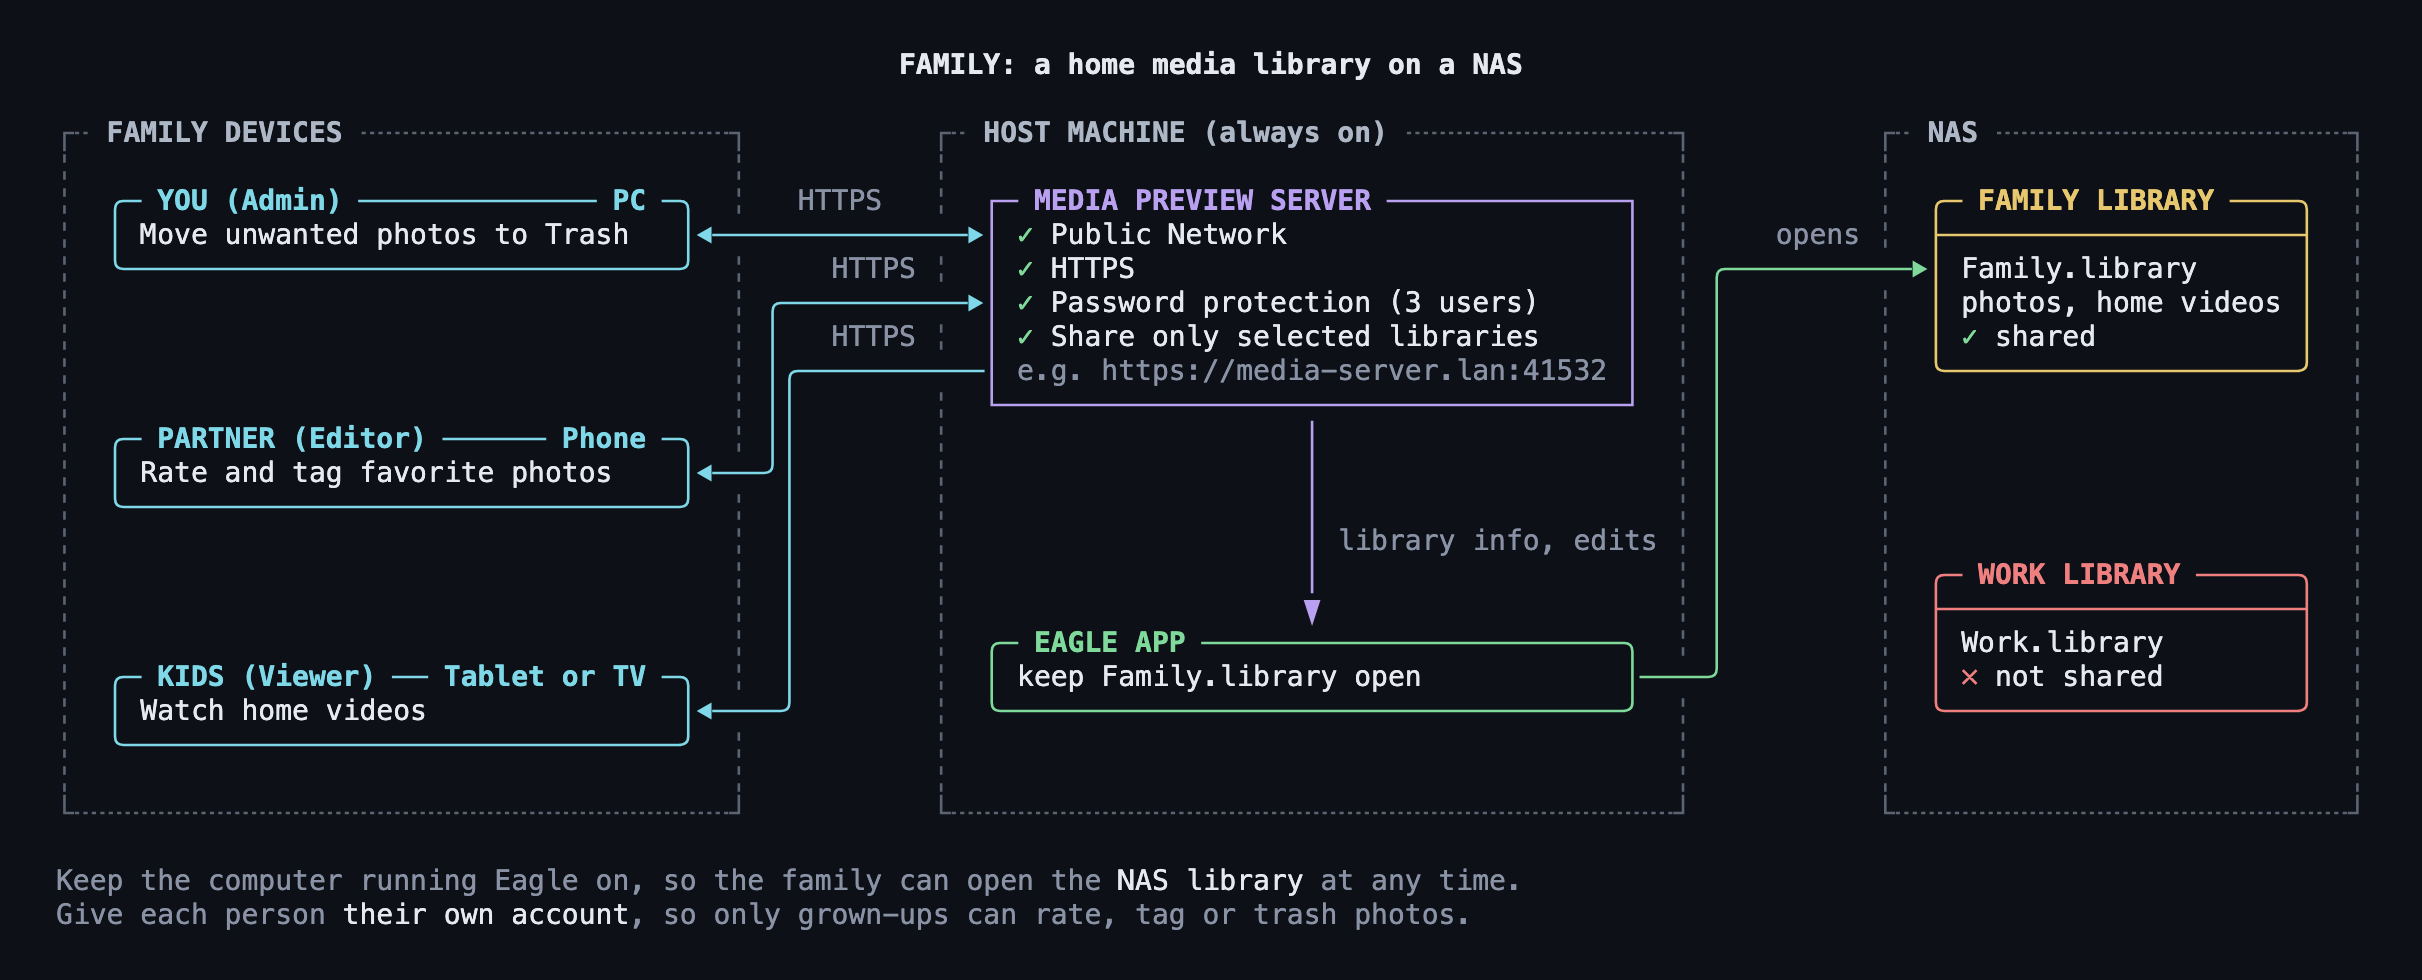
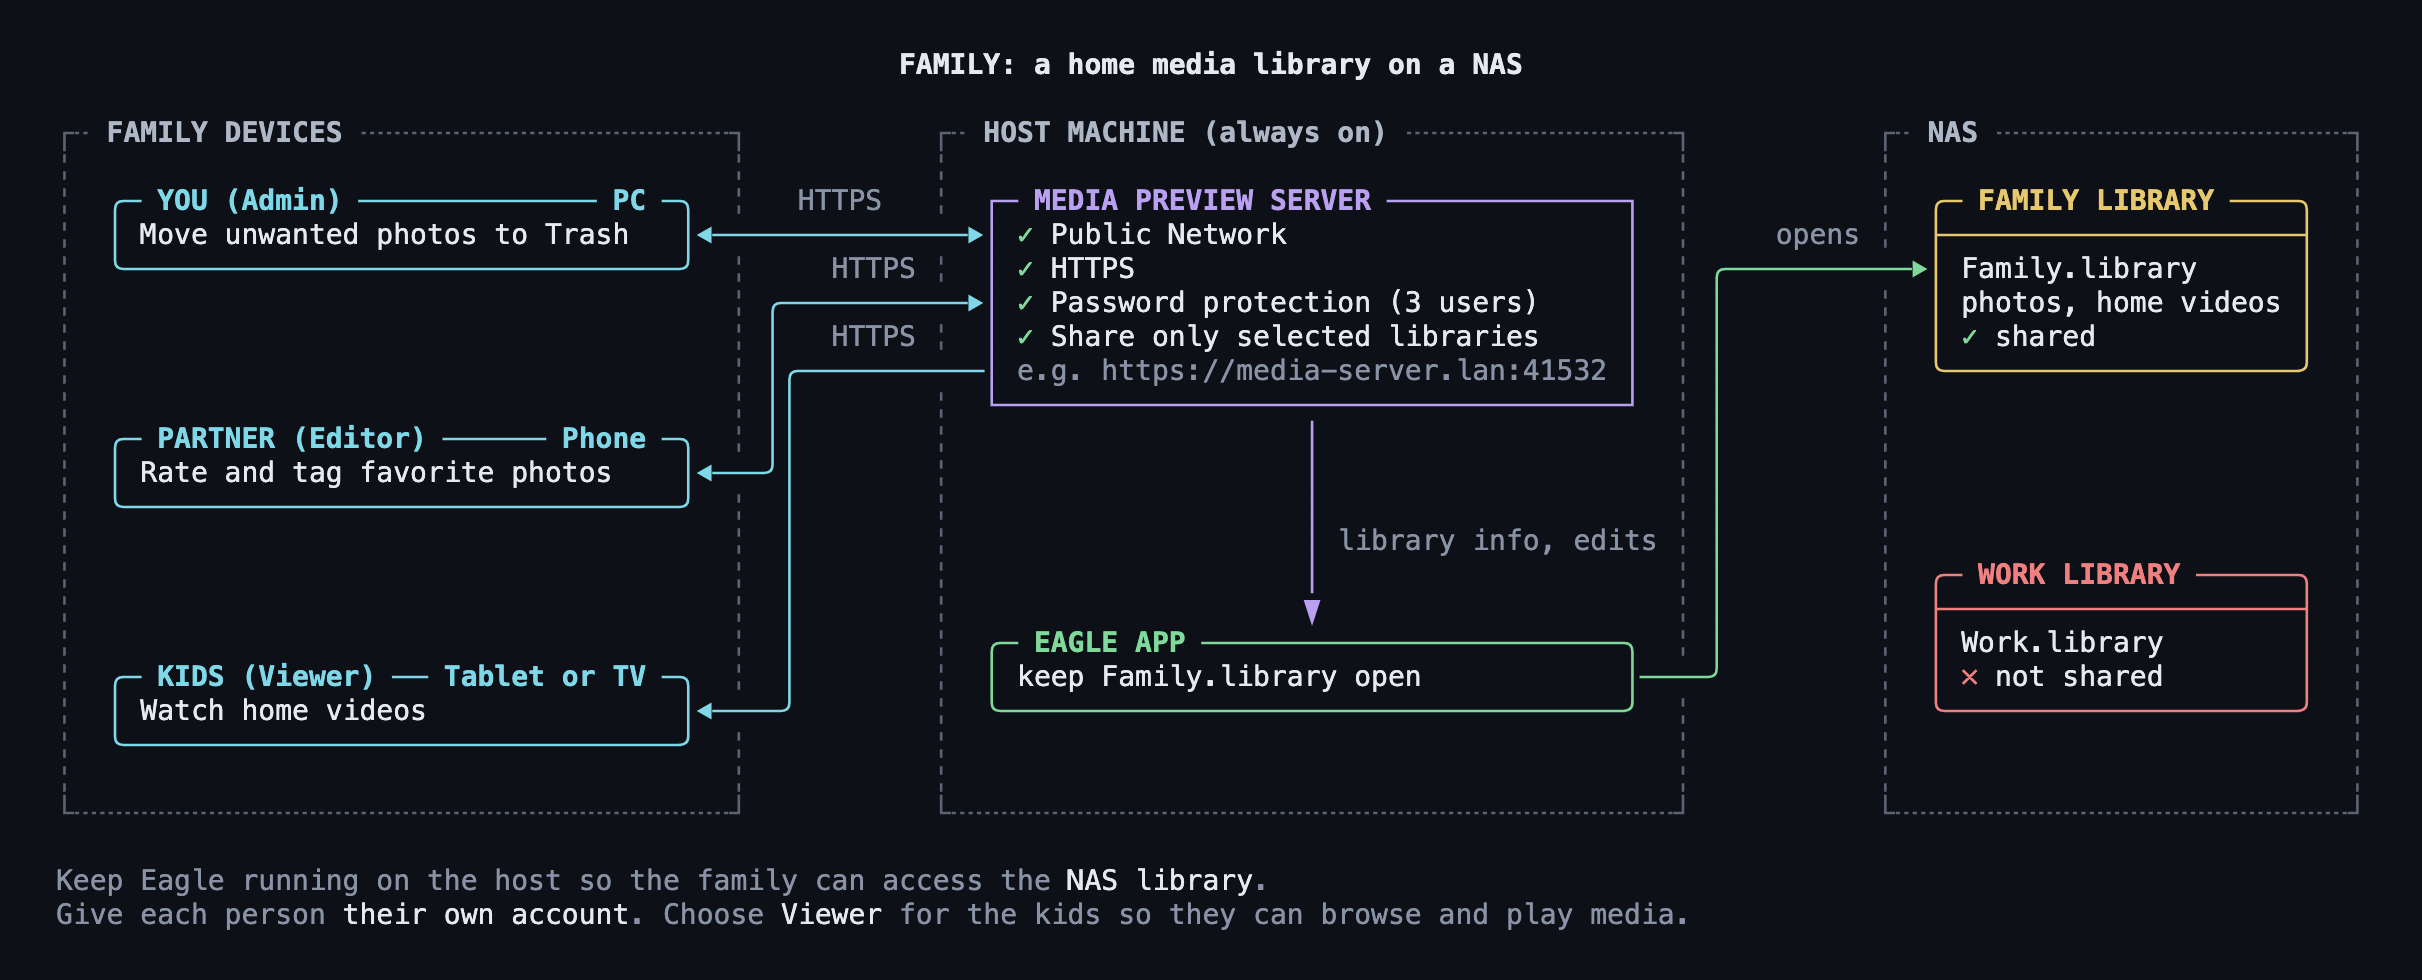
docs: update README and diagrams for clarity; enhance use case descriptions

Changed region(s): [[0.0619, 0.8878, 0.7122, 0.949]]

diff --git a/README.md b/README.md
@@ -51,9 +51,9 @@ Experimental:
 <details>
 <summary><strong>PWA Installation</strong></summary>
 
-The browser viewer can be installed from a supported desktop or mobile browser. Service workers require a secure context, so use HTTPS when opening the viewer from another device on your LAN. Loopback addresses such as `localhost` are also treated as secure by browsers.
+Install **Media Library** as a progressive web app (PWA) from a supported browser. For access over your LAN, use HTTPS with a certificate your device trusts. On the host, `localhost` also works.
 
-The PWA caches only the application shell. Eagle API responses and library media are intentionally excluded from the service-worker cache, so browsing library content still requires a connection to the running plugin server.
+The PWA caches the app interface. Browsing the library still requires a connection to the server.
 
 On iPhone and iPad, open the viewer in Safari, tap **Share → Add to Home Screen**, and keep **Open as Web App** turned on.
 
@@ -200,19 +200,19 @@ To open the viewer on another device, use the URL or scan the QR code shown in *
 
 #### Personal: browse your own library from your laptop and phone
 
-Keep Eagle running on your desk and open the library from your laptop or phone on the home Wi-Fi. Turn on **Public Network** and **Password protection**, and set up **HTTPS** if you want to install the viewer as a PWA.
+With **HTTPS** set up, you can install the viewer as a **PWA** and open it like an app.
 
 ![Use case: personal](docs/use_case_personal.png)
 
 #### Family: a home media library on a NAS
 
-An always-on host machine opens a library stored on the NAS and serves it to the whole family. Give each person their own user and role, and use **Share only selected libraries** so your other libraries stay private.
+Give each person their own account and choose **Share only selected libraries** to share just the family library.
 
 ![Use case: family](docs/use_case_family.png)
 
 #### Business: a quick share with a teammate
 
-In **Libraries**, turn on **Share only selected libraries** and select the project for review. Give your teammate a **Viewer** account to browse and preview files, or an **Editor** account if they should also rate and tag files. Turn on **Public Network** and **Password protection** in **Server Status**. Keep the project library open in Eagle, start the server, and send your teammate the viewer URL. They can sign in from a browser. Stop the server when the review ends.
+Share the project library over **HTTP** on the office LAN and give your teammate a **Viewer** account to preview the files. Stop the server after the review.
 
 ![Use case: business](docs/use_case_business.png)
 
